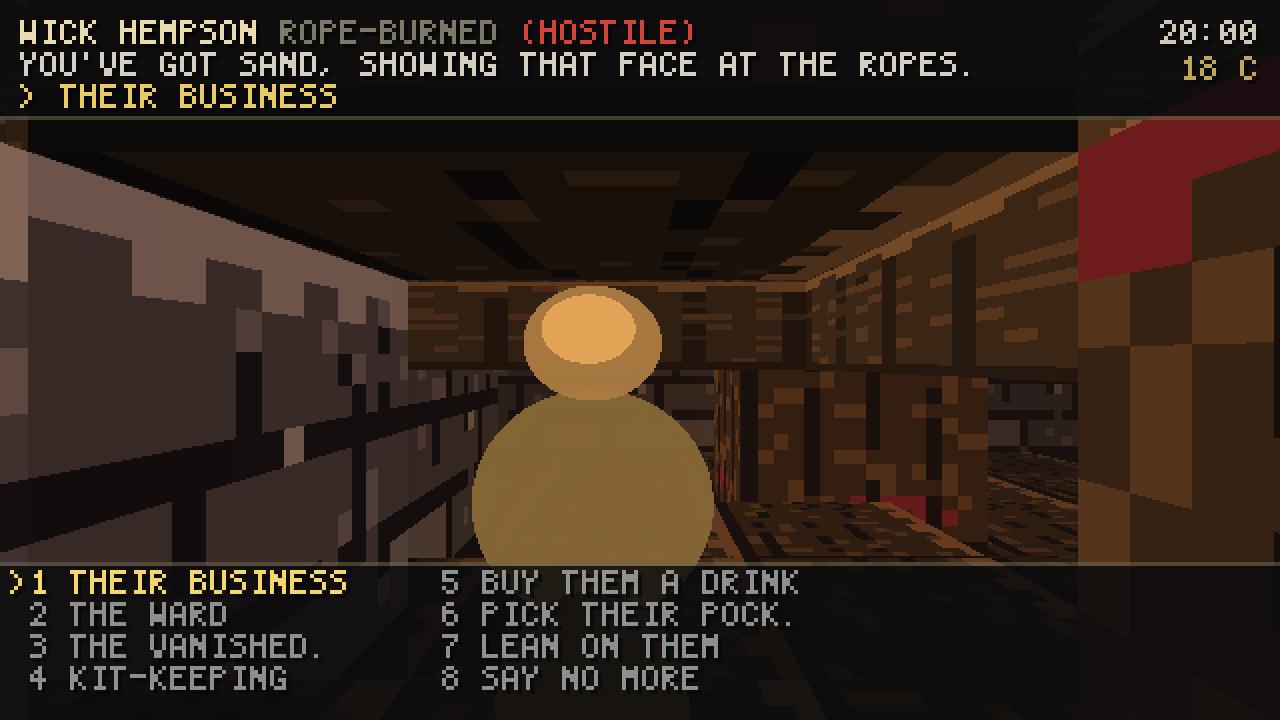
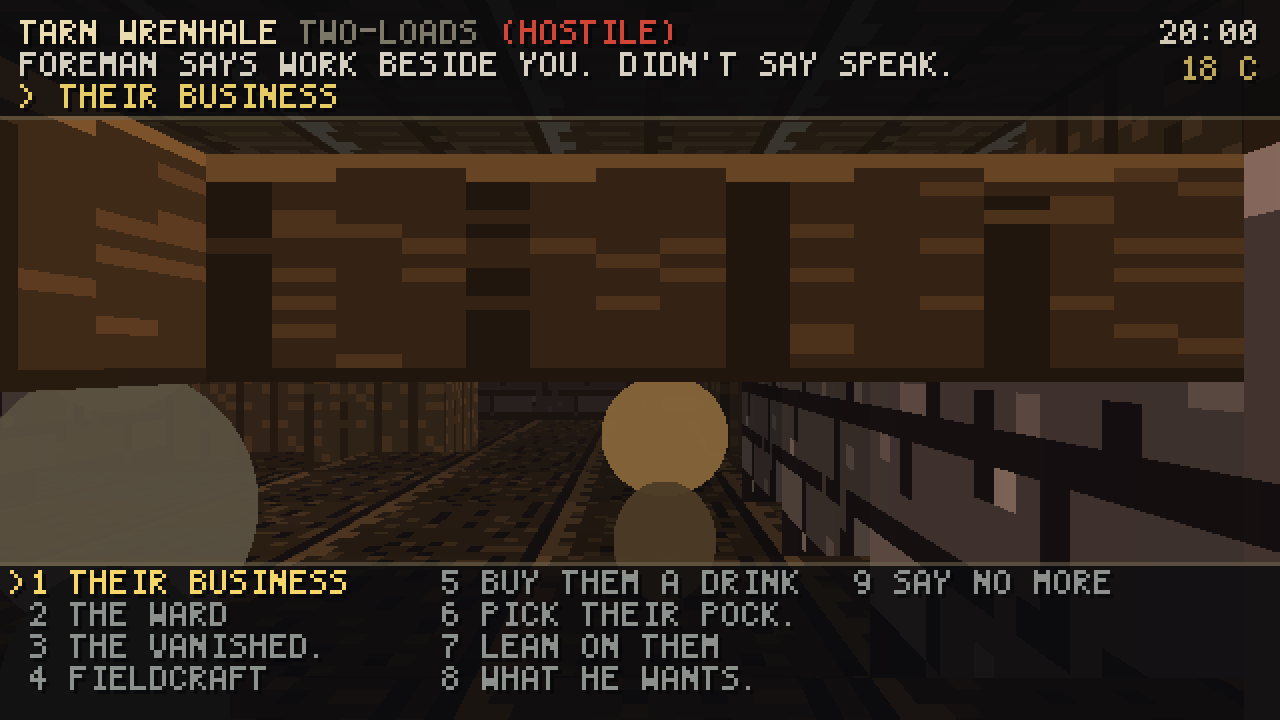
docs: the S8 ruling, the arc in the README, and three frames that show it
DECISIONS.md carries Eli's own words for the nemesis and the two clauses that
bind the implementation: the rise moves through the systems the ward already
runs on, and permanence is the point. ARCHITECTURE.md marks the nemesis BUILT
and the compounds joined to the windowed game, and says out loud that the
combat screen is now load-bearing rather than merely absent.

Frames re-shot from the shipped binary: s7-skyrun.png (the topic grid is legible
and the bouncer's warning is in the top band where it belongs), s8-nemesis-talk
(TARN WRENHALE TWO-LOADS (HOSTILE), and a topic on the list that exists only
because he beat you), s8-nemesis-hud, s8-smoke.

diff --git a/docs/design/DECISIONS.md b/docs/design/DECISIONS.md
@@ -26,6 +26,8 @@ Engine/sim decisions live in ARCHITECTURE.md; this file records the GAMEPLAY lay
 
 | — | Trojian housing: Compounds | (Eli, 2026-07-13) **Housing is organized into Compounds, not detached houses.** A Compound = one large walled lot: a courtyard/atrium farm at the center (crops for the resident families) surrounded by condo-like apartments or mansions belonging to owning families. Built up multiple stories where land is scarce; the ROOFTOP of a tall compound is walled off and rented out as mass low-income housing (tents/mud huts — informal, flammable, cheap). Wealth gradient IN MATERIALS: mansions/condos of owning families = **Reman engineering** (concrete-equivalent — Rema is the canon engineer-civilization); rooftop slum housing = cheap cloth/mudbrick/tent construction. Visual touchstone Eli gave: "the big crab in Ald-Ruhn" (Morrowind) — one large architectural shell containing a whole community's housing stratified by income, not a suburb of identical single-family lots. **Applies retroactively**: the "12 homes" of the city-block population effort become ~12 dwelling UNITS within one compound (a few condo/mansion units + several rooftop tent/hut units), not 12 separate buildings. **"Skyrunners"**: Granadad's in-world term for burglars/assassins, named because they break in through compound ceilings and flee across the rooftop-slum layer — a natural third `Job.Villain.*` alongside Robber/Cutpurse, tied to the Skyrunning skill and the Persona cover-identity seam. **Rooftops are socially unseemly** — being seen on one marks a Trojian as low-status or criminal; this is *why* the poor live there and *why* it's a villain highway. Retroactively explains BLESSING-QUEUE #6 (Skylining/Skyrunning kept Favored "for the Wielder") — Gabri's maxed social immunity exempts him alone from that stigma. Binding: no future rooftop-social mechanic may penalize a presented-Wielder actor. |
 
+| — | The nemesis (S8) | (Eli, 2026-08-04) **Killing the player is a PROMOTION EVENT.** Verbatim: *"The player respawns when killed, but the person who killed them should rise in political rank and retain a rivalry with the player. Maybe the player could be killed by a laborer in a fist fight but next time the player returns that person might be promoted to a carpenter who's the head of a new Carpenter's Guild or something."* Binding on the implementation: the rise MOVES THROUGH THE SYSTEMS THE WARD ALREADY RUNS ON and never through a parallel one -- a rung off the owner's own `ranks.json` with the authored title, influence through the S4 mirror so the winner's guild gains what its declared rival loses, a trade house out of an authored file with REAL members and a permanent cut of real prices, and a vacant charge taken on the same compound roll section 2.8 says any actor may petition for. **Permanence is the point:** beating him afterwards takes the grudge down and leaves the rank, the house, the toll and the ground exactly where they are -- you can win the rematch, you cannot un-found his guild. **The PLAYER respawns as themselves**, per the 2026-07-31 ruling that the persistent-ward variant (the city surviving your death while you return as somebody else) is not being built from the start -- *"it's easy to change that later"* -- so every record is keyed on the WINNER's name and the day a save carries a second protagonist nothing in the book has to be rewritten. |
+
 | — | Trojian tenure: the charge and the bond | (Eli, 2026-07-29) **Property in Granadad is a three-tier ground lease under a Church freehold, and Trojian serfdom is the debt that settles it — a relation between two actors with terms, not a caste and not a status flag.** Eli, verbatim: *"In lieu of paying Royals for rent you can lease yourself to your Den Duke (update lore to include this term, a Den Duke is someone who owns and rents property in Granadad.) This is also the same sort of system that a Craftlord might use to get workers in his shop, and how Guilds acquire competition."* Then, on the structure: *"The den dukes should own a parent plot that contains all houses within the compound. Den dukes own the compound while individuals own the houses."* Then, superseding any two-tier reading of the first: *"The plots should be owned by the priests of the flame for historical and legal preservation. Then dukes and tenants can make agreements to lease. A priest should be required to evict and they should consider the tenant too."* **THE THREE TIERS.** (1) The **Priests of the Flame** hold every PLOT in trust, for historical and legal preservation. The ground is not property; it is a **charge**, and it is never sold, only let. (2) A **DEN DUKE** holds the charge on a plot — the compound, its wall, its gate, its courtyard — pays the Flame a charge-rent, and lets the ground under each house to that house's owner. A **CRAFTLORD** is the identical instrument on working ground (a yard, a shed, a quay frontage): same table, different title. (3) **Individuals own their HOUSES outright**, standing on ground they will never own. A family can own its house free and clear and still owe the man who rents the earth beneath it, and that man does not own the earth either. **RENT IS GROUND RENT** — the *ground penny*, owed by each house-owner to the plot's Den Duke, never rent on the dwelling. **PAYABLE IN ROYALS OR IN YOURSELF:** a house-owner who cannot find the penny may go **bondsworn**, leasing their own labour to their Den Duke until the arrears are worked off. That is what Trojian serfdom is. A serf is not born a serf; a serf is a house-owner who had a bad quarter. **ROOFTOP RULING:** a rooftop lodger rents from the HOUSE-OWNER BENEATH THEM, not from the Den Duke — a roof is part of a house, and the house is individually owned. This makes every mansion-poor house-owner a petty landlord, and it means that when a house is taken for arrears the roof goes with it and the roof people were never parties to the case. The priest weighs the tenant; nobody weighs the lodgers. **EVICTION REQUIRES A PRIEST, AND THE PRIEST IS AN ARBITER.** A Den Duke cannot turn a family out; he must bring a **petition** to the Flame and the priest weighs the tenant as well as the arrears (see DOCKS-GAZETTEER §2.8 for the hearing, its inputs and its six outcomes — the outcomes are not yes and no). This completes a pattern already ruled: the Church is the ward's purse, approves trades as ordinary business, and sanctions the redemption of a scalp. One conscience now sits under trade, under blood money, and under the roof over every family's head. The Church never opposes anyone openly; it makes itself unavoidable while appearing to serve. **RETIRES A PLACEHOLDER:** DOCKS-GAZETTEER §4.2's SERF dossier framing ("'serf' framing placeholder") is superseded — the ward's serf mass is now defined by a MECHANISM (a debt relation dressed as a tenancy) rather than a caste label. This is a ruling, not a drift. **BINDING ON PRESENTATION:** ownership is never rendered. Eli, verbatim: *"no it doesn't need to be visible, just use the info to populate signage appropriately."* No ownership overlay, no painted ground, no boundary lines, no debug layer. Ownership is a fact the world knows and the SIGNS report; the player learns who holds the ground by reading the ward. |
 
 | — | Crime/Arrest/Escalation (supersedes ACTORS-SPEC.md §2.7 item 5 for Skyrunners) | Eli re-ruled 2026-07-14 (verbatim): "guards should arrest criminals for 1-3 days before turning them loose unless they're a skyrunner then it's cut off their hand first offense and hanging on the second." This **supersedes, for Skyrunners specifically**, ACTORS-SPEC.md's earlier §2.7/item-5 ruling "the Watch arrests, never executes" — that hurt-not-kill rule stands unchanged for ordinary Robbers/Cutpurses (arrest → `HELD` → a drawn 1-3 day sentence → release, no execution path exists for them), but a Skyrunner's 2nd repeat offense is now a permanent `EXECUTED` status (hanged; the actor is never removed from `ActorRegistry` — no removal path exists — it stays resident, permanently inert). A Skyrunner's 1st offense is `MAIMED` only (cosmetic status bit; no stat penalty, since no combat system exists yet to attach one to). Implementation: `JobBehaviors.checkArrestExposure` (detection + arrest/escalation transition), `HeldPolicy`/`ExecutedPolicy` (new `PolicyId`s), `StatusBit.HELD/MAIMED/EXECUTED` (new bits 6-8), `Actor.heldUntilTick`/`offenseCount` (new scalar fields, the `goalProgress`/`goalWorkTicks` precedent). Both docs should be read together going forward: ACTORS-SPEC.md's "never executes" line is correct for Robber/Cutpurse, incorrect for Skyrunner's 2nd offense. |

diff --git a/README.md b/README.md
@@ -20,13 +20,24 @@ The game is being rewritten in C++. **`native/` is the live tree**; read
 docker compose run --rm --build build      # reproducible build -> dist/
 .\dist\granadad.exe                        # the game
 .\dist\granadad.exe --smoke=120 --screenshot=frame.png   # a frame, no window needed
+.\dist\granadad.exe --nemesis --screenshot=rival.png    # lose three fights, watch him rise
+.\dist\granadad.exe --ward                # the compounds, two years, as text
 .\scripts\verify-windows.ps1               # finishes the cross-toolchain determinism gate
 ```
+
+`granadad.exe --help` lists every scripted line the build plays back with no window:
+`--flame`, `--skyrun`, `--contract`, `--roofs`, `--nemesis`.
 
 You spawn on the Tarwalk six tiles off the door of the Gilded Gull, the captains' tavern.
 Walk in: `E` talks and does business, `F` throws a punch, `R` sleeps in a room you have
 rented. There are fourteen people in there who keep hours, and two of them will put you out
 of the door if you make them.
+
+Lose a fist fight in there and the man who put you on the floor gets something for it: a rung
+on his own guild's ladder, weight in the ward that its rival loses, and -- if you keep going
+back -- a trade house of his own with a permanent cut of what a mug costs you, and his name on
+the compound roll as the Den Duke of the Gullet. You get up on the quay a few hours later. He
+keeps all of it.
 
 The Java tree (`sim-core/`, `client-observer/`, `tools/`, `headless/`) stays in place, untouched,
 as the behavioural reference until the C++ reaches parity. It is not the thing being built.
